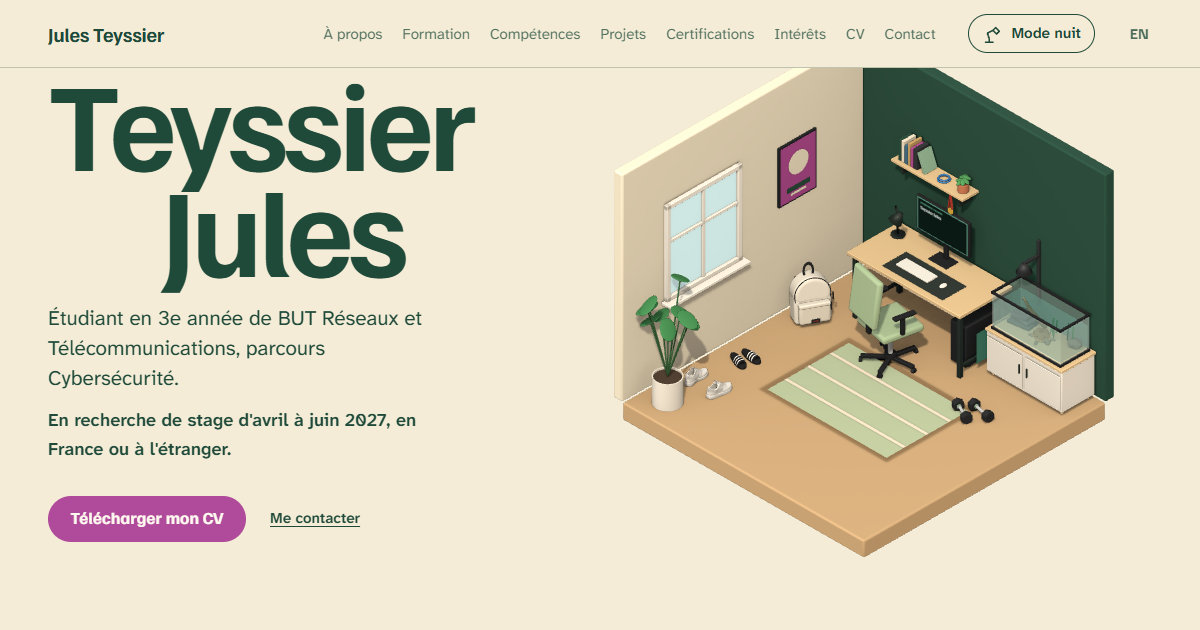
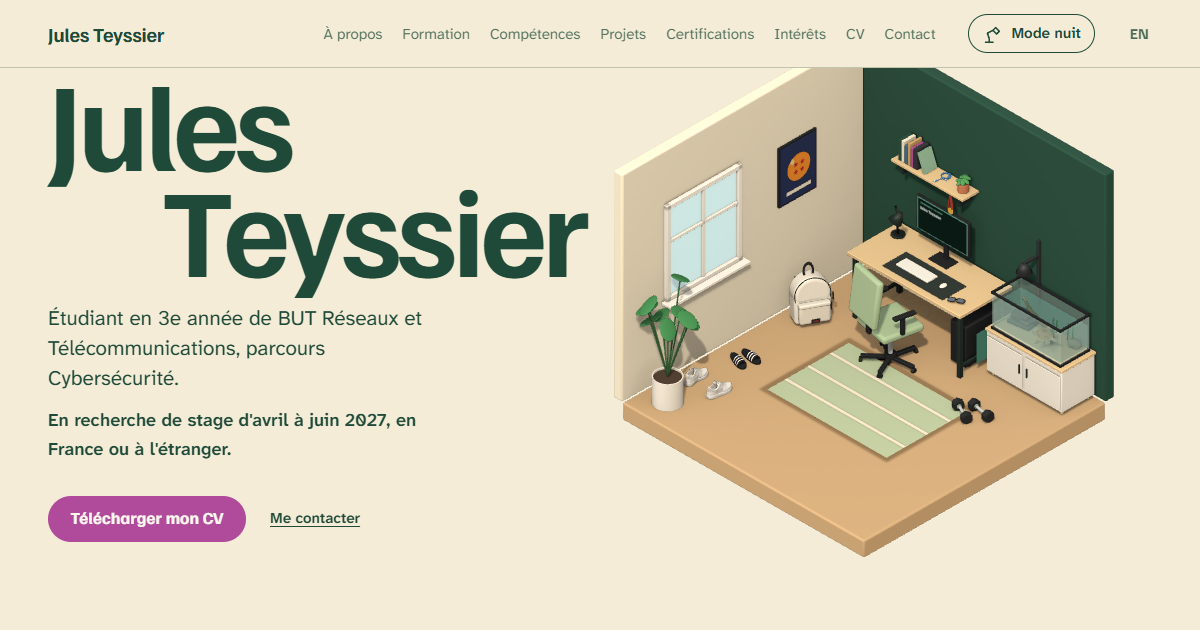
competences reecrites, apercus de partage

diff --git a/index.html b/index.html
@@ -23,7 +23,7 @@
 <link rel="alternate" hreflang="fr" href="https://teyssierjules.github.io/">
 <link rel="alternate" hreflang="en" href="https://teyssierjules.github.io/en/">
 <link rel="stylesheet" href="vendor/fonts.css">
-<link rel="stylesheet" href="css/style.css?v=audit1">
+<link rel="stylesheet" href="css/style.css?v=competences1">
 <script type="importmap">
 { "imports": {
   "three": "./vendor/three/three.module.min.js",
@@ -105,52 +105,31 @@
     <details>
       <summary><span class="skills__name">Réseau</span><span class="skills__keys">OSPF, BGP, MPLS, VLAN, ACL, Wireshark</span></summary>
       <div class="skills__body">
-        <h3>1re année, les fondamentaux</h3>
-        <ul><li>Modèles OSI et TCP/IP, encapsulation</li><li>Adressage IPv4 et découpage en sous-réseaux</li><li>Ethernet, câblage, switchs et routeurs Cisco</li><li>VLAN, trunk 802.1Q, routage inter-VLAN</li><li>Spanning Tree : STP et RSTP</li><li>Routage statique, puis dynamique avec EIGRP</li><li>Filtrage du trafic par ACL</li><li>NAT et PAT, adressage IPv6</li><li>Relais DHCP sur routeur</li></ul>
-        <h3>2e année, j'ai approfondi</h3>
-        <ul><li>Réseaux de campus : OSPF multi-aires, authentification entre routeurs, élection DR/BDR, redistribution de routes</li><li>Bases du Wi-Fi et de la qualité de service</li><li>Réseaux opérateurs : BGP interne et externe, interconnexion de systèmes autonomes, MPLS</li><li>Analyse de trafic avec Wireshark</li></ul>
-        <h3>En entreprise, chez XEFI</h3>
-        <ul><li>Installation et administration d'un switch sur un site de laboratoire</li><li>Diagnostic d'un automate de laboratoire sans réseau, en remontant son câblage jusqu'au switch</li></ul>
+        <ul><li>Configurer un réseau de campus : VLAN, trunk 802.1Q, routage inter-VLAN, Spanning Tree</li><li>Router en statique et en dynamique : EIGRP, OSPF multi-aires authentifié, BGP, MPLS</li><li>Filtrer par ACL, faire du NAT/PAT, adresser en IPv4 et IPv6</li><li>Analyser du trafic avec Wireshark</li><li>En entreprise : installer un switch sur site, remonter une panne jusqu'au bon port</li></ul>
       </div>
     </details>
     <details>
       <summary><span class="skills__name">Systèmes</span><span class="skills__keys"><button class="kw" type="button" data-modal="modal-ad" title="voir le projet">Active Directory</button>, <button class="kw" type="button" data-modal="modal-ad" title="voir le projet">Windows Server</button>, Debian, Bash, <button class="kw" type="button" data-modal="modal-stormshield" title="voir le projet">LDAP</button>, Apache</span></summary>
       <div class="skills__body">
-        <h3>1re année, les fondamentaux</h3>
-        <ul><li>Linux et Windows en ligne de commande : arborescence, droits, processus, redirections</li><li>Commandes réseau : ping, traceroute, netstat, nmap</li><li>Administration de base : systèmes de fichiers, services, comptes et quotas, lecture des logs</li><li>Premiers scripts pour automatiser des commandes</li><li>Virtualisation et conteneurisation</li><li>Services réseau sous Windows Server et Debian : SSH, DHCP, DNS, HTTP, FTP, NTP</li></ul>
-        <h3>2e année, j'ai approfondi</h3>
-        <ul><li>Services réseau avancés : serveur web Apache, serveur DNS Bind</li><li>Services d'annuaire : LDAP et Active Directory</li><li>Automatisation des tâches d'administration par scripts Bash</li></ul>
-        <h3>En entreprise, chez XEFI</h3>
-        <ul><li>Gestion courante des comptes Active Directory : créations, désactivations, mots de passe, groupes</li><li>Installation et migration de postes de travail</li><li>Installation d'un serveur</li></ul>
+        <ul><li>Administrer Windows Server et Active Directory : comptes, groupes, GPO → <button class="kw" type="button" data-modal="modal-ad" title="voir le projet">audit AD</button></li><li>Monter des services sous Debian et Windows : DNS (Bind), DHCP, SSH, Apache, LDAP</li><li>Automatiser en Bash, virtualiser (Proxmox, VirtualBox)</li><li>En entreprise : installer et migrer des postes, installer un serveur</li></ul>
       </div>
     </details>
     <details>
       <summary><span class="skills__name">Cybersécurité</span><span class="skills__keys"><button class="kw" type="button" data-modal="modal-stormshield" title="voir le projet">Stormshield</button>, <button class="kw" type="button" data-modal="modal-stormshield" title="voir le projet">VPN SSL</button>, <button class="kw" type="button" data-modal="modal-pentest" title="voir le projet">pentesting</button>, <button class="kw" type="button" data-modal="modal-xefi" title="voir le projet">EDR</button>, <button class="kw" type="button" data-modal="modal-ad" title="voir le projet">ANSSI</button>, NIST</span></summary>
       <div class="skills__body">
-        <h3>1re année, les fondamentaux</h3>
-        <ul><li>Hygiène informatique et recommandations de l'ANSSI</li><li>Analyse des vulnérabilités : causes techniques et humaines, cadre NIST, outils de scan et de correctifs</li><li>Attaques réseau de base : usurpation ARP, prise d'empreinte par ICMP</li><li>Filtrage du trafic par ACL</li><li>Failles web : XSS, injections SQL</li></ul>
-        <h3>2e année, j'ai approfondi</h3>
-        <ul><li>Méthodologie du pentesting : reconnaissance, recherche et exploitation de vulnérabilités</li><li>Pare-feu Stormshield : politique de filtrage, sécurisation d'un système d'information</li><li>VPN SSL pour les utilisateurs nomades sur pare-feu Stormshield</li><li>Authentification du routage (OSPF MD5)</li></ul>
-        <h3>En entreprise, chez XEFI</h3>
-        <ul><li>Règles de pare-feu pour des clients du secteur de la santé</li><li>Déploiement d'EDR sur les postes</li><li>Sensibilisation des utilisateurs aux bonnes pratiques</li></ul>
+        <ul><li>Mener un test d'intrusion de bout en bout, jusqu'au score CVSS → <button class="kw" type="button" data-modal="modal-pentest" title="voir le projet">tests d’intrusion</button></li><li>Configurer un pare-feu Stormshield : filtrage, NAT, VPN SSL et IPsec → <button class="kw" type="button" data-modal="modal-stormshield" title="voir le projet">Stormshield</button></li><li>Durcir un Active Directory selon l'ANSSI → <button class="kw" type="button" data-modal="modal-ad" title="voir le projet">audit AD</button></li><li>Superviser et centraliser les journaux : Zabbix, Splunk, Sysmon → <button class="kw" type="button" data-modal="modal-supervision" title="voir le projet">supervision</button></li><li>En entreprise : règles de pare-feu, déploiement d'EDR, sensibilisation des utilisateurs</li></ul>
       </div>
     </details>
     <details>
       <summary><span class="skills__name">Développement</span><span class="skills__keys"><button class="kw" type="button" data-modal="modal-fond-ecran" title="voir le projet">Python</button>, <button class="kw" type="button" data-modal="modal-coffre" title="voir le projet">Java</button>, <button class="kw" type="button" data-modal="modal-coffre" title="voir le projet">SQL</button>, JavaScript, Git</span></summary>
       <div class="skills__body">
-        <h3>1re année, les fondamentaux</h3>
-        <ul><li>Python : variables, structures de contrôle, fonctions, manipulation de fichiers</li><li>Structures de données : dictionnaires, classes, fichiers JSON et CSV, expressions régulières</li><li>Bases de données relationnelles et requêtes SQL</li><li>Web : HTML, CSS, JavaScript, requêtes HTTP, scripts côté serveur</li><li>Suivi de versions avec Git</li></ul>
-        <h3>2e année, j'ai approfondi</h3>
-        <ul><li>Programmation en Java</li><li>Gestion d'une base de données SQL</li><li>Développement d'une application sécurisée en Java : un coffre-fort</li></ul>
+        <ul><li>Automatiser en Python → <button class="kw" type="button" data-modal="modal-fond-ecran" title="voir le projet">fond d’écran iPhone</button></li><li>Développer une application sécurisée en Java avec SQL → <button class="kw" type="button" data-modal="modal-coffre" title="voir le projet">MonCoffreFort</button></li><li>Web (HTML, CSS, JavaScript) et Git</li></ul>
       </div>
     </details>
     <details>
       <summary><span class="skills__name">Télécoms</span><span class="skills__keys">Fibre optique, téléphonie sur IP, réseaux cellulaires, MATLAB</span></summary>
       <div class="skills__body">
-        <h3>1re année, les fondamentaux</h3>
-        <ul><li>Supports de transmission : cuivre, fibre optique, radio. Mesures d'atténuation et recherche de défauts</li><li>Signaux : analyse spectrale, bande passante, bilans de liaison</li><li>Numérisation : échantillonnage, quantification</li><li>Téléphonie d'entreprise : IPBX, téléphonie sur IP</li></ul>
-        <h3>2e année, j'ai approfondi</h3>
-        <ul><li>Chaînes de transmission numériques</li><li>Fibre optique et propagation</li><li>Réseaux d'accès et réseaux cellulaires</li><li>Traitement du signal avec MATLAB</li></ul>
+        <ul><li>Fibre optique : mesures d'atténuation et recherche de défauts</li><li>Téléphonie sur IP et IPBX</li><li>Réseaux cellulaires, chaînes de transmission, traitement du signal sous MATLAB</li></ul>
       </div>
     </details>
   </div>
@@ -680,6 +659,6 @@
   </div>
 </dialog>
 
-<script type="module" src="js/main.js?v=audit1"></script>
+<script type="module" src="js/main.js?v=competences1"></script>
 </body>
 </html>

diff --git a/en/index.html b/en/index.html
@@ -23,7 +23,7 @@
 <meta name="twitter:card" content="summary_large_image">
 <meta name="theme-color" content="#f4ecd6">
 <link rel="stylesheet" href="../vendor/fonts.css">
-<link rel="stylesheet" href="../css/style.css?v=audit1">
+<link rel="stylesheet" href="../css/style.css?v=competences1">
 <script type="importmap">
 { "imports": {
   "three": "../vendor/three/three.module.min.js",
@@ -105,53 +105,31 @@
     <details>
       <summary><span class="skills__name">Networking</span><span class="skills__keys">OSPF, BGP, MPLS, VLAN, ACL, Wireshark</span></summary>
       <div class="skills__body">
-        <h3>Year 1, the fundamentals</h3>
-        <ul><li>OSI and TCP/IP models, encapsulation</li><li>IPv4 addressing and subnetting</li><li>Ethernet, cabling, Cisco switches and routers</li><li>VLANs, 802.1Q trunking, inter-VLAN routing</li><li>Spanning Tree: STP and RSTP</li><li>Static routing, then dynamic routing with EIGRP</li><li>Traffic filtering with ACLs</li><li>NAT and PAT, IPv6 addressing</li><li>DHCP relay on a router</li></ul>
-        <h3>Year 2, going further</h3>
-        <ul><li>Campus networks: multi-area OSPF, router authentication, DR/BDR election, route redistribution</li><li>Wi-Fi and quality of service basics</li><li>Carrier networks: internal and external BGP, interconnecting autonomous systems, MPLS</li><li>Traffic analysis with Wireshark</li></ul>
-        <h3>At work, at XEFI</h3>
-        <ul><li>Installed and managed a switch at a laboratory site</li><li>Diagnosed a laboratory analyser with no network, tracing its cabling back to the switch</li></ul>
+        <ul><li>Configure a campus network: VLANs, 802.1Q trunks, inter-VLAN routing, Spanning Tree</li><li>Static and dynamic routing: EIGRP, authenticated multi-area OSPF, BGP, MPLS</li><li>Filter with ACLs, set up NAT/PAT, address in IPv4 and IPv6</li><li>Analyse traffic with Wireshark</li><li>At work: install a switch on site, trace a fault back to the right port</li></ul>
       </div>
     </details>
     <details>
       <summary><span class="skills__name">Systems</span><span class="skills__keys"><button class="kw" type="button" data-modal="modal-ad" title="see the project">Active Directory</button>, <button class="kw" type="button" data-modal="modal-ad" title="see the project">Windows Server</button>, Debian, Bash, <button class="kw" type="button" data-modal="modal-stormshield" title="see the project">LDAP</button>, Apache</span></summary>
       <div class="skills__body">
-        <h3>Year 1, the fundamentals</h3>
-        <ul><li>Linux and Windows command line: file tree, permissions, processes, redirections</li><li>Network commands: ping, traceroute, netstat, nmap</li><li>Basic administration: file systems, services, accounts and quotas, reading logs</li><li>First scripts to automate commands</li><li>Virtualisation and containers</li><li>Network services on Windows Server and Debian: SSH, DHCP, DNS, HTTP, FTP, NTP</li></ul>
-        <h3>Year 2, going further</h3>
-        <ul><li>Advanced network services: Apache web server, Bind DNS server</li><li>Directory services: LDAP and Active Directory</li><li>Automating admin tasks with Bash scripts</li></ul>
-        <h3>At work, at XEFI</h3>
-        <ul><li>Day-to-day Active Directory account management: creation, deactivation, passwords, groups</li><li>Workstation setup and migration</li><li>Server installation</li></ul>
+        <ul><li>Administer Windows Server and Active Directory: accounts, groups, GPOs → <button class="kw" type="button" data-modal="modal-ad" title="see the project">AD audit</button></li><li>Set up services on Debian and Windows: DNS (Bind), DHCP, SSH, Apache, LDAP</li><li>Automate with Bash, virtualise (Proxmox, VirtualBox)</li><li>At work: install and migrate workstations, install a server</li></ul>
       </div>
     </details>
     <details>
       <summary><span class="skills__name">Cybersecurity</span><span class="skills__keys"><button class="kw" type="button" data-modal="modal-stormshield" title="see the project">Stormshield</button>, <button class="kw" type="button" data-modal="modal-stormshield" title="see the project">SSL VPN</button>, <button class="kw" type="button" data-modal="modal-pentest" title="see the project">penetration testing</button>, <button class="kw" type="button" data-modal="modal-xefi" title="see the project">EDR</button>, <button class="kw" type="button" data-modal="modal-ad" title="see the project">ANSSI</button>, NIST</span></summary>
       <div class="skills__body">
-        <h3>Year 1, the fundamentals</h3>
-        <ul><li>IT hygiene and guidelines from ANSSI, the French national cybersecurity agency</li><li>Vulnerability analysis: technical and human causes, NIST framework, scanning and patching tools</li><li>Basic network attacks: ARP spoofing, ICMP fingerprinting</li><li>Traffic filtering with ACLs</li><li>Web vulnerabilities: XSS, SQL injection</li></ul>
-        <h3>Year 2, going further</h3>
-        <ul><li>Penetration testing methodology: reconnaissance, finding and exploiting vulnerabilities</li><li>Stormshield firewall: filtering policy, securing an information system</li><li>SSL VPN for remote users on a Stormshield firewall</li>
-          <li>IPsec VPN tunnel between our network and another company's, tested with a ping from both sides</li><li>Routing authentication (OSPF MD5)</li></ul>
-        <h3>At work, at XEFI</h3>
-        <ul><li>Firewall rules for healthcare clients</li><li>EDR deployment on workstations</li><li>User awareness on good security practices</li></ul>
+        <ul><li>Run a penetration test end to end, up to the CVSS score → <button class="kw" type="button" data-modal="modal-pentest" title="see the project">penetration testing</button></li><li>Configure a Stormshield firewall: filtering, NAT, SSL and IPsec VPN → <button class="kw" type="button" data-modal="modal-stormshield" title="see the project">Stormshield</button></li><li>Harden an Active Directory following ANSSI guidelines → <button class="kw" type="button" data-modal="modal-ad" title="see the project">AD audit</button></li><li>Monitor systems and centralise logs: Zabbix, Splunk, Sysmon → <button class="kw" type="button" data-modal="modal-supervision" title="see the project">monitoring</button></li><li>At work: firewall rules, EDR deployment, user awareness</li></ul>
       </div>
     </details>
     <details>
       <summary><span class="skills__name">Development</span><span class="skills__keys"><button class="kw" type="button" data-modal="modal-fond-ecran" title="see the project">Python</button>, <button class="kw" type="button" data-modal="modal-coffre" title="see the project">Java</button>, <button class="kw" type="button" data-modal="modal-coffre" title="see the project">SQL</button>, JavaScript, Git</span></summary>
       <div class="skills__body">
-        <h3>Year 1, the fundamentals</h3>
-        <ul><li>Python: variables, control flow, functions, file handling</li><li>Data structures: dictionaries, classes, JSON and CSV files, regular expressions</li><li>Relational databases and SQL queries</li><li>Web: HTML, CSS, JavaScript, HTTP requests, server-side scripts</li><li>Version control with Git</li></ul>
-        <h3>Year 2, going further</h3>
-        <ul><li>Java programming</li><li>Managing an SQL database</li><li>Building a secure Java application: a digital vault</li></ul>
+        <ul><li>Automate with Python → <button class="kw" type="button" data-modal="modal-fond-ecran" title="see the project">iPhone wallpaper</button></li><li>Build a secure Java application with SQL → <button class="kw" type="button" data-modal="modal-coffre" title="see the project">MonCoffreFort</button></li><li>Web (HTML, CSS, JavaScript) and Git</li></ul>
       </div>
     </details>
     <details>
       <summary><span class="skills__name">Telecoms</span><span class="skills__keys">Optical fibre, voice over IP, cellular networks, MATLAB</span></summary>
       <div class="skills__body">
-        <h3>Year 1, the fundamentals</h3>
-        <ul><li>Transmission media: copper, optical fibre, radio. Attenuation measurement and fault finding</li><li>Signals: spectrum analysis, bandwidth, link budgets</li><li>Digitisation: sampling, quantisation</li><li>Business telephony: IP-PBX, voice over IP</li></ul>
-        <h3>Year 2, going further</h3>
-        <ul><li>Digital transmission chains</li><li>Optical fibre and propagation</li><li>Access networks and cellular networks</li><li>Signal processing with MATLAB</li></ul>
+        <ul><li>Optical fibre: attenuation measurements and fault finding</li><li>Voice over IP and IPBX</li><li>Cellular networks, transmission chains, signal processing with MATLAB</li></ul>
       </div>
     </details>
   </div>
@@ -680,6 +658,6 @@
   </div>
 </dialog>
 
-<script type="module" src="../js/main.js?v=audit1"></script>
+<script type="module" src="../js/main.js?v=competences1"></script>
 </body>
 </html>

diff --git a/css/style.css b/css/style.css
@@ -338,3 +338,5 @@ body.simple { background: var(--creme); }
 .simple__main p { margin: 0 0 1rem; }
 .simple__en { margin-top: 2.5rem !important; font-size: var(--fs-small); color: var(--soft); }
 .foot a { color: inherit; }
+.skills__body ul { padding-top: .25rem; }
+.skills__body li .kw { white-space: nowrap; font-weight: 600; }
